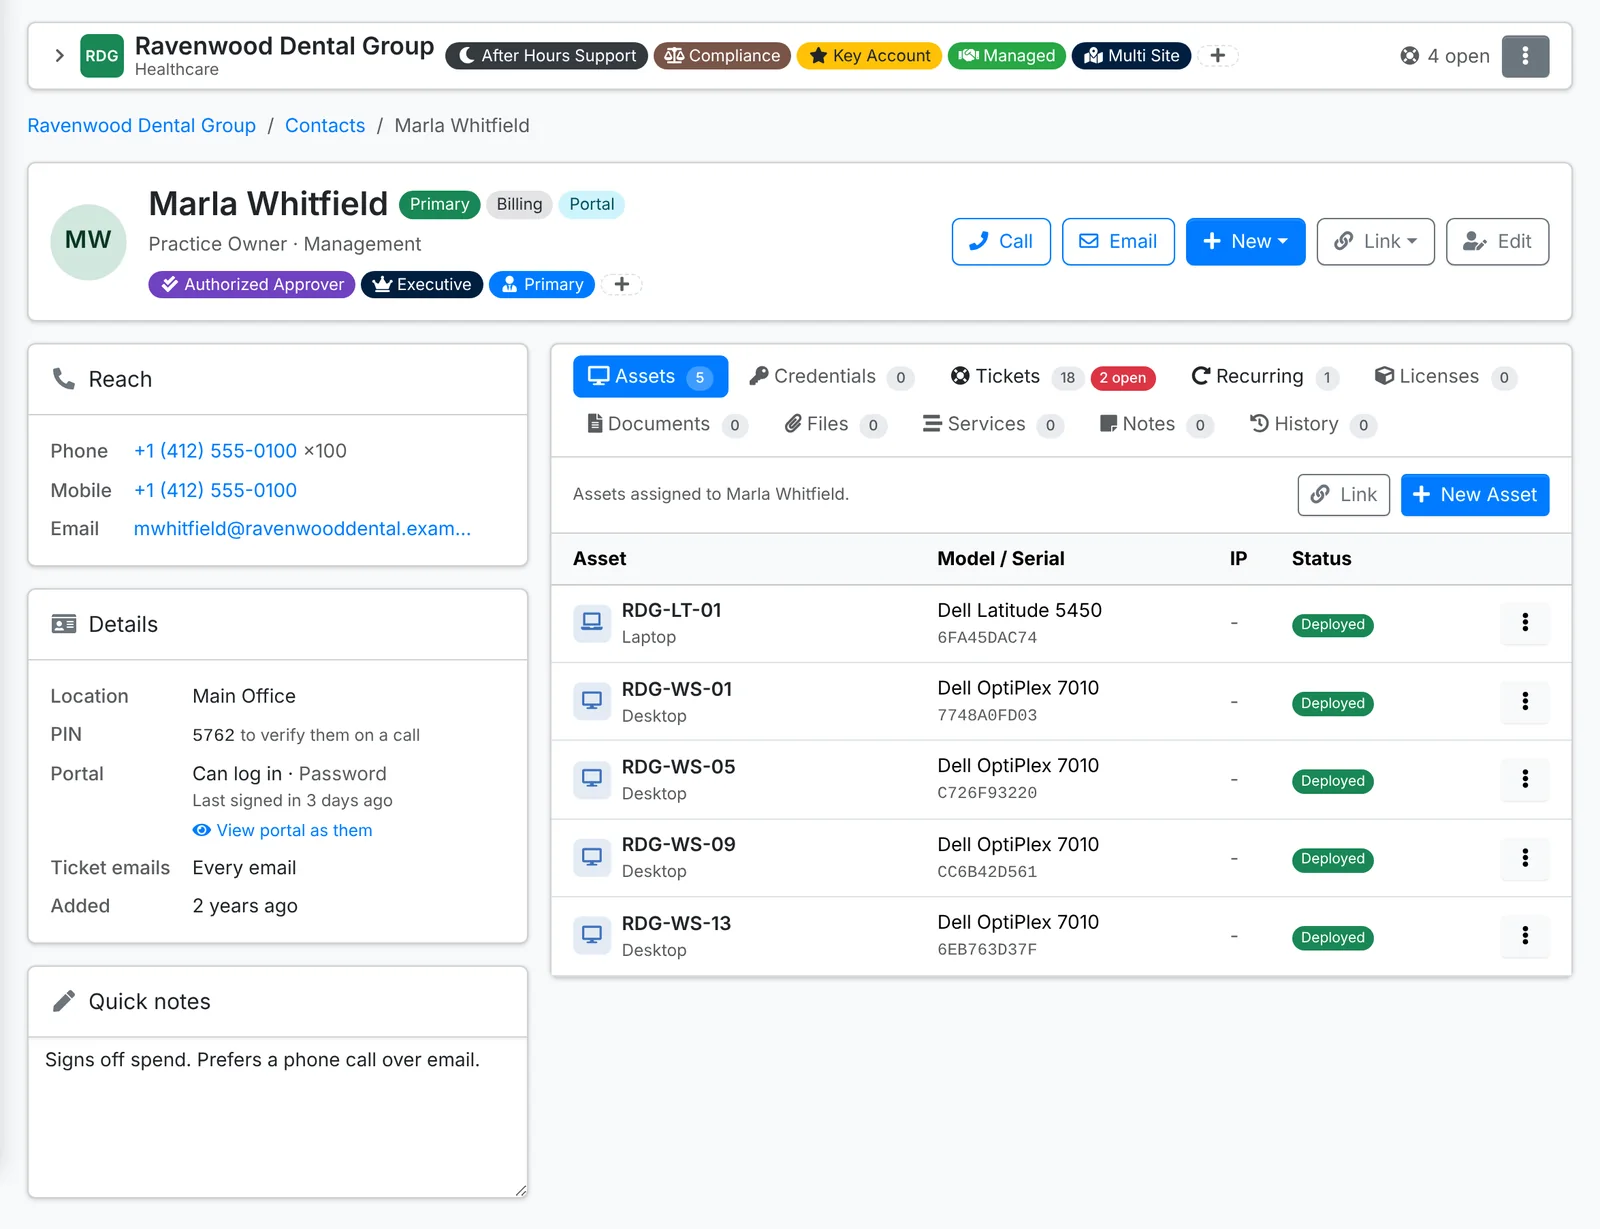
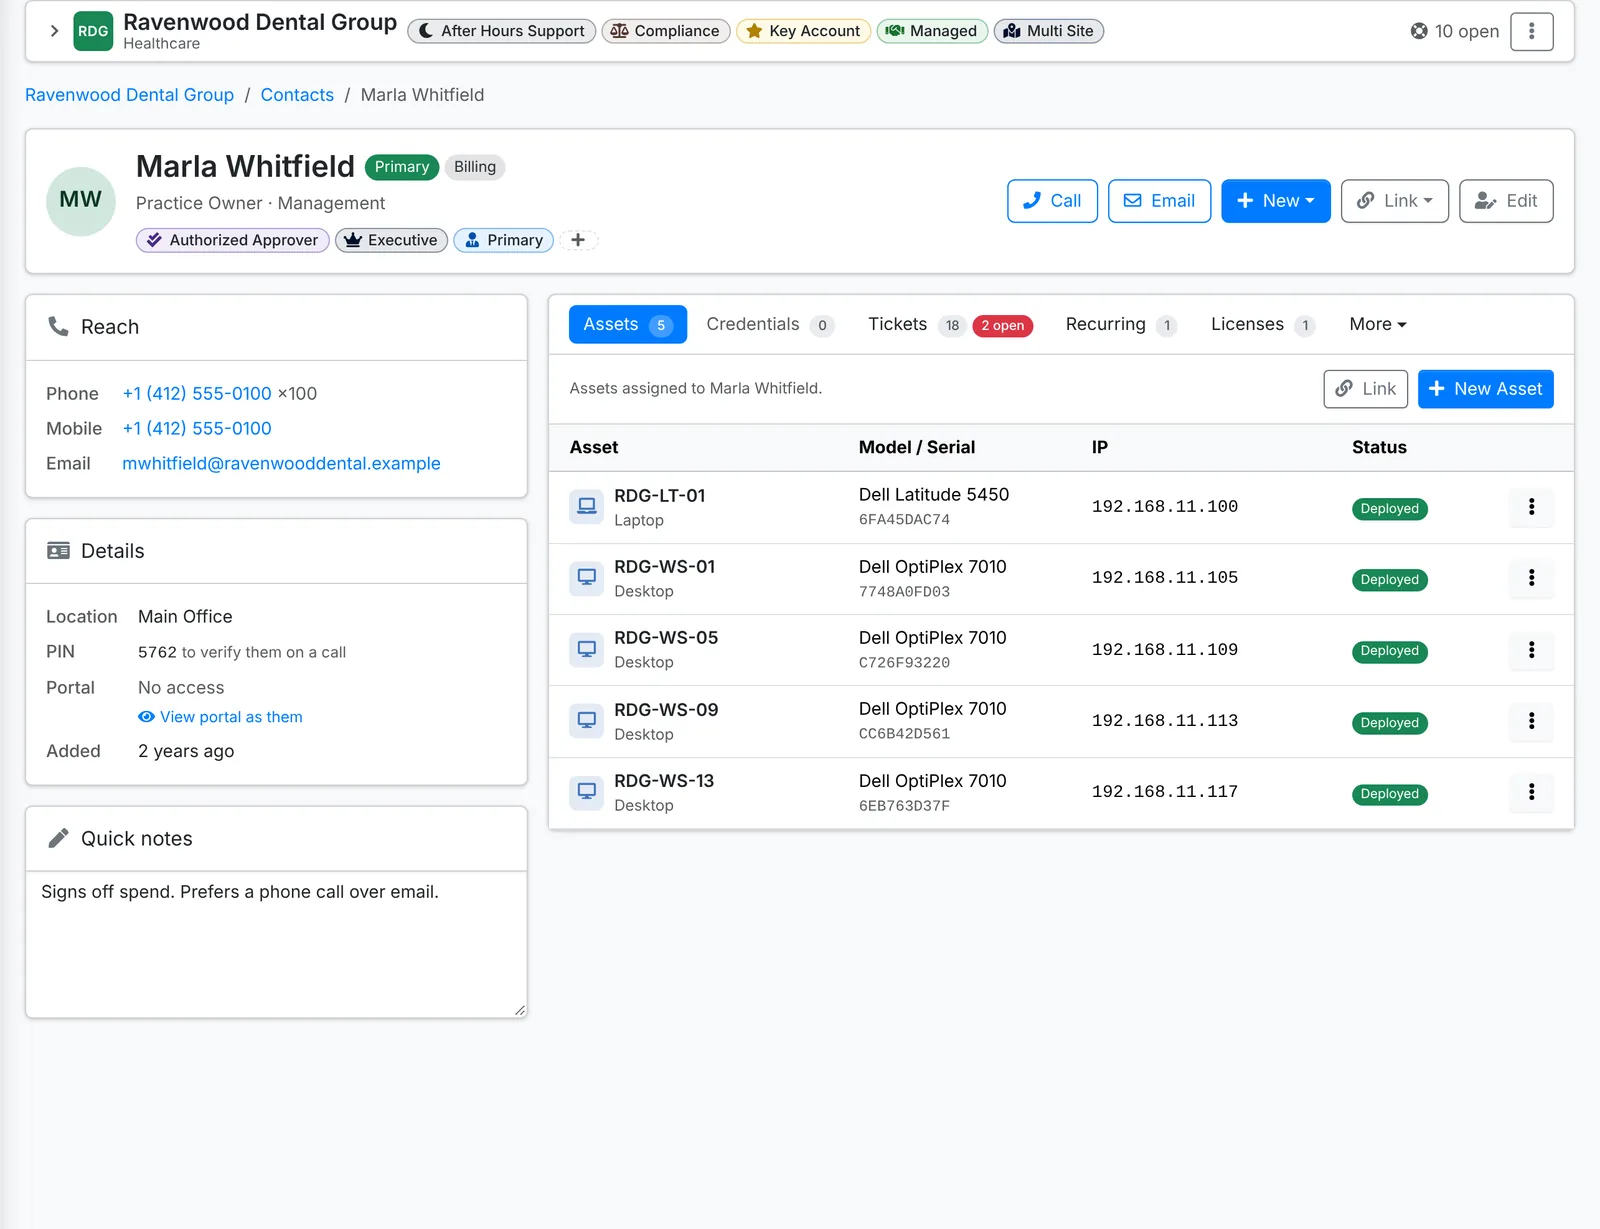
Docs: lists guide mentions More for record page and form tabs, with the contact page screenshot retaken

diff --git a/content/getting-started/lists.md b/content/getting-started/lists.md
@@ -113,11 +113,11 @@ Most records also have a full page of their own. They share one layout:
 
 - the actions along the top - edit, share, new ticket and the rest
 - the key details in cards
-- everything related - tickets, files, licenses, history - in tabs with counts. Most pages remember the last tab you had open.
+- everything related - tickets, files, licenses, history - in tabs with counts. Most pages remember the last tab you had open. The tabs keep to one line: those that don't fit are under **More** at the end, which shows a red count when one in it needs attention, such as a contact's open tickets.
 
 ## Forms
 
-Forms have an icon in front of every field. Long forms are split into tabs; if you save with a required field empty on another tab, ITFlow takes you to it.
+Forms have an icon in front of every field. Long forms are split into tabs - on a small screen, the ones that don't fit are under **More**. If you save with a required field empty on another tab, ITFlow takes you to it.
 
 A field with a list of choices opens it under the field, with a search box when the list is long. **Cancel** at the top closes it without changing the field, and **Done** closes one where you tick several. A click anywhere else closes it too, a reply or other text box included.
 
